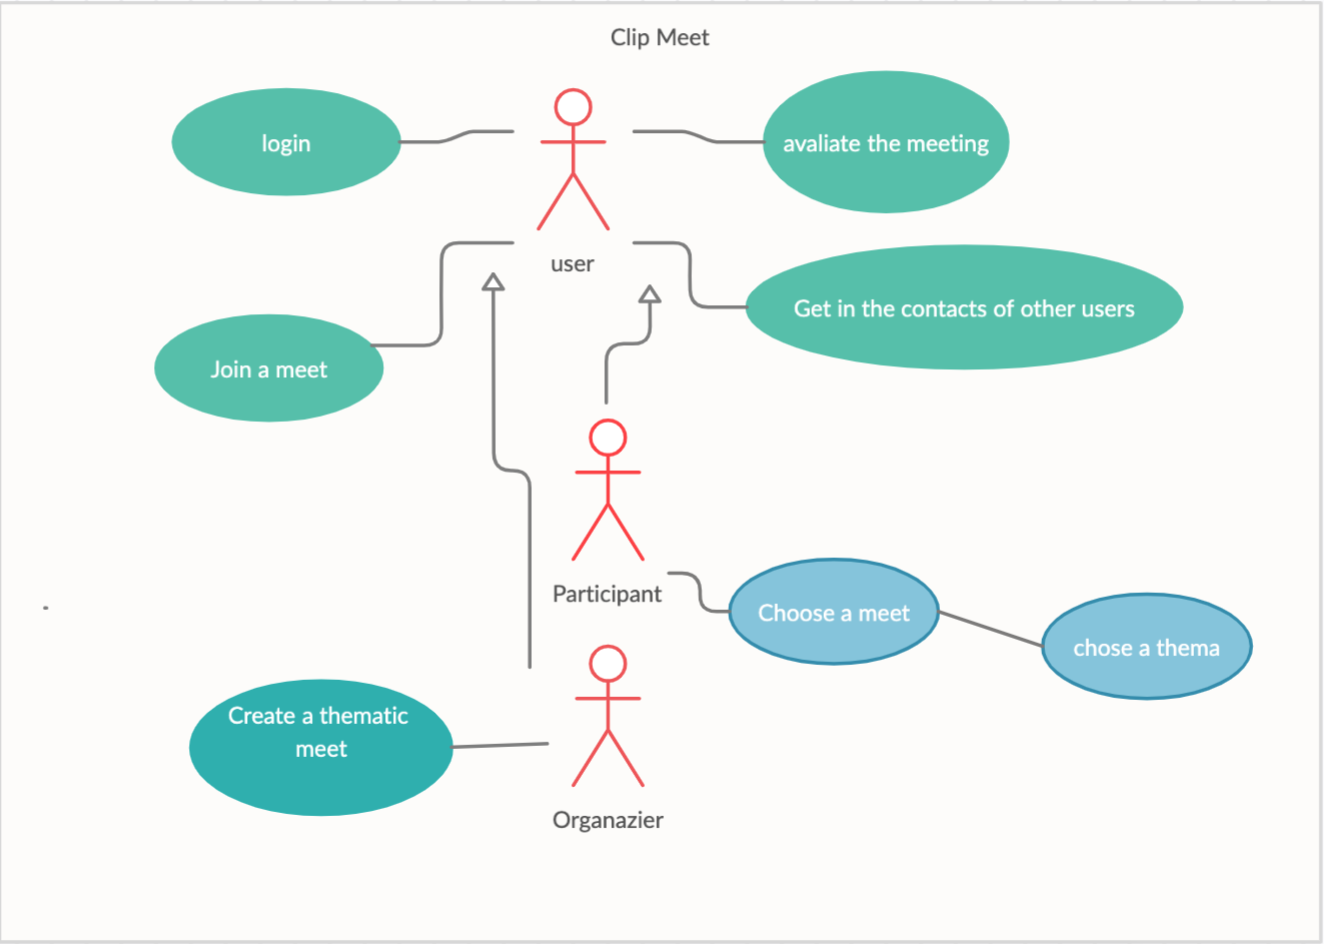
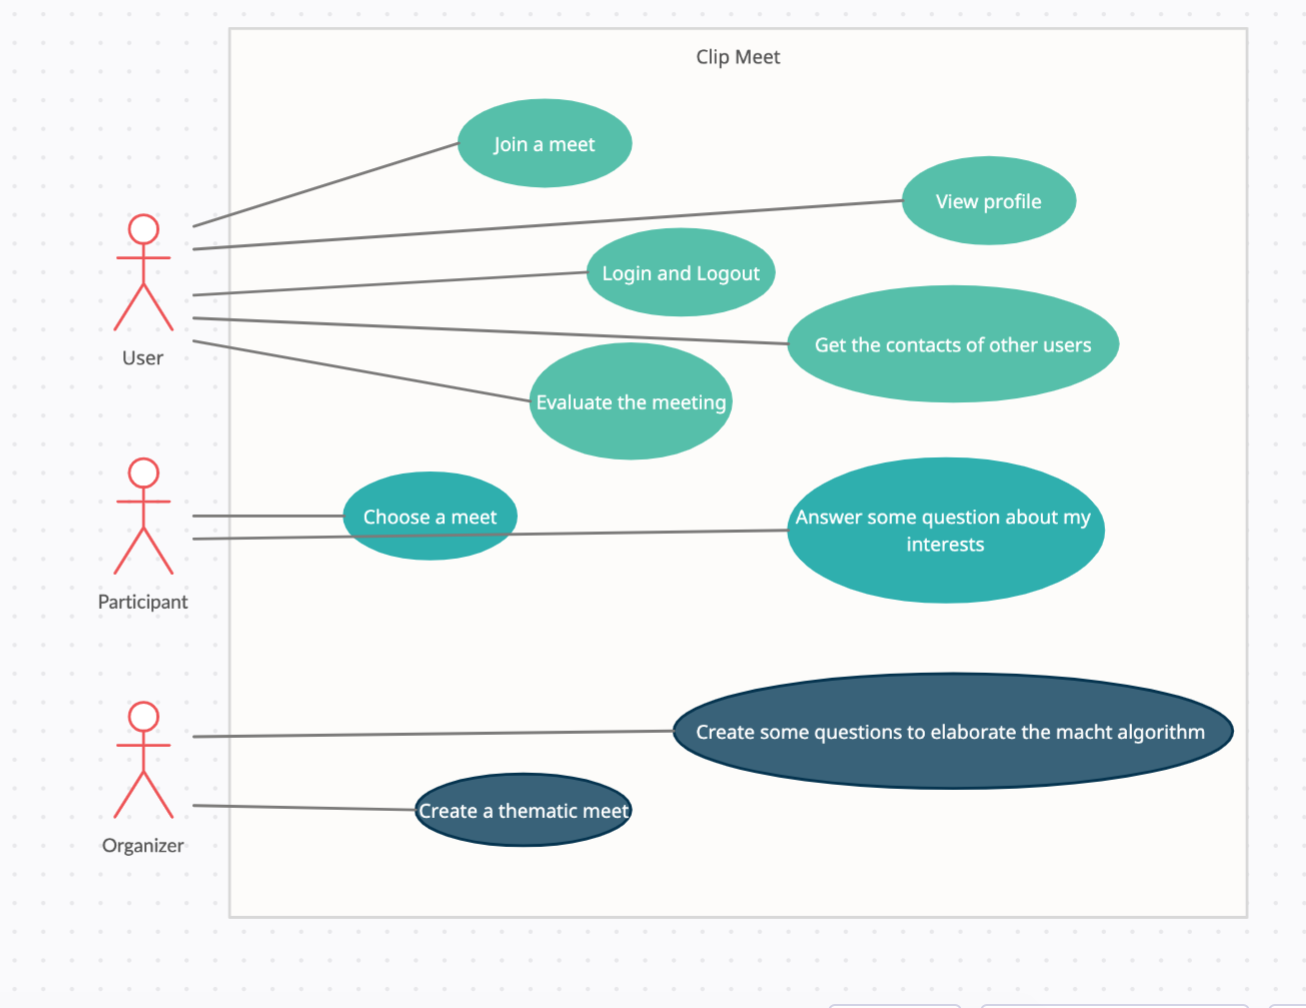
New User Cases diagram and Architecture and Design done

diff --git a/Development-Report.md b/Development-Report.md
@@ -52,7 +52,7 @@ We care about our user experience in speed meetings. In order to make the experi
 
 After logging in, and signing up to the meeting, a selection of questions are arranged that best describe the meeting at hand. After the speed networking session, the user can evaluate the matches and request the information of people that he has interest to contact in the future. 
 
-In these times when almost one-third of the world population is staying at home, how are you devoloping your network?
+In these times when almost one-third of the world population is staying at home, how are you developing your network?
 
 ---
 ## Requirements
@@ -125,8 +125,14 @@ The architecture of a software system, along with others roles, is responsable t
 
 
 ### Logical architecture
+Very used in mobile apps nowadays, the MVC, embraces the characteristics needed for this project. Therefore was the pattern chosen.
+The architectural pattern,MVC , embodies three parts. Or to be more exact it divides the application into three logical parts:
+#### Model: Directory named as the original, Model.
+#### View: Directory named as Screens in our code.
+#### Controller:  Directory named as Services, as the logical part view we decide with the purpose of clarity named different than the tradicional.
 
 ### Physical architecture
+<p align="center"> <img src="/images/DeploymentDiagram.png" alt="Deployment Diagram"/> </p>
 
 
 ### Prototype
@@ -134,6 +140,7 @@ The architecture of a software system, along with others roles, is responsable t
 ---
 
 ## Implementation
+The implementation was divided in iterations, here are the releases for each of them:
 
 ---
 ## Test
